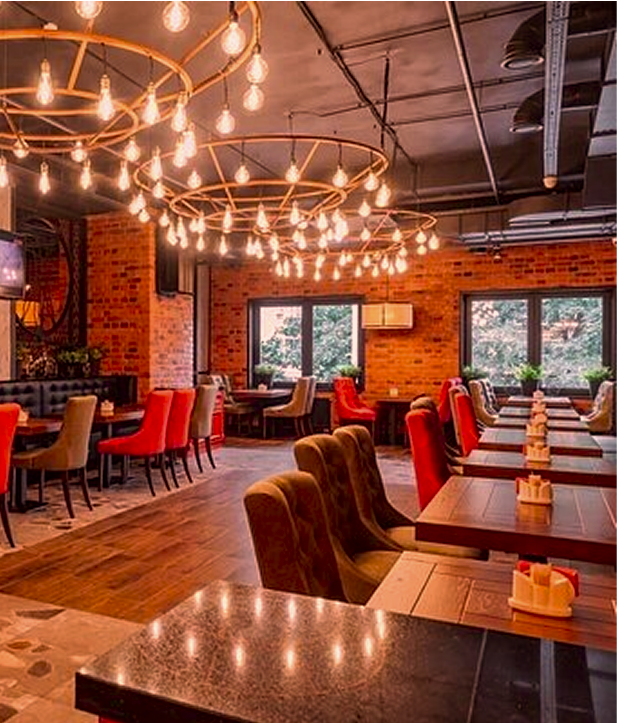
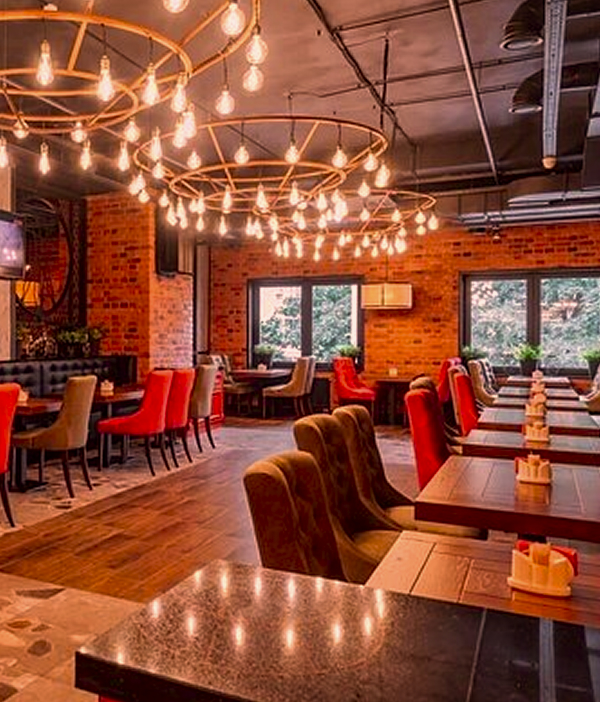
адаптив для больших устройств (#5)

diff --git a/styles/style.css b/styles/style.css
@@ -46,7 +46,7 @@ body {
 
   @media (min-width: 1920px) {
     margin: 0 auto;
-    width: 1220px;
+    width: 1597px;
   }
 }
 
@@ -98,7 +98,11 @@ body {
   }
 
   @media (min-width: 1220px) {
-    width: 732px;
+    width: 60%;
+  }
+
+  @media (min-width: 1920px) {
+    width: 100%;
   }
 }
 
@@ -107,6 +111,7 @@ body {
 
   @media (min-width: 1220px) {
     width: 100%;
+    z-index: 2;
   }
 }
 
@@ -119,10 +124,6 @@ body {
     justify-content: space-between;
     align-items: center;
   }
-
-  /* @media (min-width: 1220px) {
-    width: 732px;
-  } */
 }
 
 .logo__pic {
@@ -152,7 +153,12 @@ body {
   }
 
   @media (min-width: 1920px) {
+    margin-right: 646px;
     width: 480px;
+
+    .page-header--scrolled & {
+      margin-right: 0;
+    }
   }
 }
 
@@ -323,7 +329,7 @@ body {
   }
 
   @media (min-width: 1220px) {
-    padding: 27px 63px;
+    padding: 27px 63px 40px;
 
     &::before {
       content: "";
@@ -331,12 +337,20 @@ body {
       top: 0;
       bottom: 0;
       right: 0;
-      width: 638px;
+      width: 40%;
       background-image:
       url("../images/pizza.jpg");
       background-repeat: no-repeat;
       background-position: 0 0;
-      background-size: auto 100%;
+      background-size: cover;
+    }
+  }
+
+  @media (min-width: 1920px) {
+    padding: 150px 0 50px;
+
+    &::before {
+      z-index: 1;
     }
   }
 }
@@ -425,22 +439,44 @@ body {
 
 .advantages__container {
   padding: 7px 0 27px;
-  /* position: relative; */
 
   @media (min-width: 1220px) {
+    padding: 27px 0 27px 30%;
+
     &::before {
       content: "";
       position: absolute;
-      width: 622px;
-      top: 0;
+      width: 30%;
+      top: 27px;
       left: 0;
-      bottom: 0;
+      bottom: 27px;
       background-image: url("../images/hall.jpg");
       background-repeat: no-repeat;
       background-position: 0 50%;
-      background-size: auto 100%;
+      background-size: cover;
+    }
+  }
+
+  @media (min-width: 1920px) {
+    padding: 100px 24%;
+
+    &::before {
+      top: 100px;
+      bottom: 100px;
     }
 
+    &::after {
+      content: "";
+      position: absolute;
+      width: 30%;
+      top: 100px;
+      right: 0;
+      bottom: 100px;
+      background-image: url("../images/hall-2.jpg");
+      background-repeat: no-repeat;
+      background-position: 0 50%;
+      background-size: cover;
+    }
   }
 }
 
@@ -450,10 +486,6 @@ body {
   list-style: none;
   display: flex;
   flex-direction: column;
-
-  @media (min-width: 1220px) {
-    padding-left: 622px;
-  }
 }
 
 .advantages__item {
@@ -466,6 +498,11 @@ body {
   background-size: 29px 23px;
   background-repeat: no-repeat;
   background-position: 0 50%;
+
+  @media (min-width: 1220px) {
+    padding-left: 78px;
+    background-size: 58px 47px;
+  }
 }
 
 .advantages__item:not(:last-child) {
@@ -495,6 +532,23 @@ body {
 
 .consultation__container {
   padding: 27px 0;
+
+  @media (min-width: 1220px) {
+    position: relative;
+
+    &::after {
+      content: "";
+      position: absolute;
+      width: 665px;
+      height: 715px;
+      right: -57px;
+      bottom: 30px;
+      background-image: url("../images/bg-consultation-man.png");
+      background-repeat: no-repeat;
+      background-position: 0 50%;
+      background-size: cover;
+    }
+  }
 }
 
 .consultation__content {
@@ -510,13 +564,33 @@ body {
     padding: 55px;
   }
 
-  @media (min-width: 1920px) {
-    padding: 73px 134px;
+  @media (min-width: 1220px) {
+    position: relative;
+    display: grid;
+    grid-template-columns: 1fr 550px;
+
+    &::before {
+      content: "";
+      position: absolute;
+      width: 550px;
+      top: 0;
+      right: 0;
+      bottom: 0;
+      background-image: url("../images/bg-consultation.jpg");
+      background-repeat: no-repeat;
+      background-position: 0 50%;
+      background-size: cover;
+      border-radius: 0 15px 15px 0;
+    }
   }
 }
 
+.consultation__form-container {
+  width: 100%;
+}
+
 .consultation__title {
-  margin: 0;
+  margin: 0 auto;
   margin-bottom: 20px;
   width: 225px;
   font-size: 24px;
@@ -526,6 +600,25 @@ body {
 
   @media (min-width: 768px) {
     width: 600px;
+    font-size: 36px;
+    line-height: 40px;
+  }
+
+  @media (min-width: 1220px) {
+    margin: 0 auto 20px;
+    width: 80%;
+    max-width: 525px;
+    font-size: 45px;
+    line-height: 49px;
+  }
+
+  @media (min-width: 1920px) {
+    margin: 0;
+    margin-bottom: 20px;
+    max-width: 800px;
+    text-align: start;
+    font-size: 54px;
+    line-height: 60px;
   }
 }
 
@@ -649,10 +742,15 @@ body {
 
 .social__container {
   padding: 27px 0;
-  display: flex;
-  flex-direction: column;
+  display: grid;
   gap: 20px;
-  align-items: center;
+  justify-items: center;
+
+  @media (min-width: 1220px) {
+    grid-template-columns: repeat(3, 300px);
+    justify-content: space-between;
+    justify-items: normal;
+  }
 }
 
 .social__logo-link {
@@ -674,6 +772,16 @@ body {
   justify-content: center;
   flex-wrap: wrap;
   gap: 8px;
+
+  @media (min-width: 1220px) {
+    margin: 0 auto;
+  }
+}
+
+.social__button {
+  @media (min-width: 1220px) {
+    justify-self: end;
+  }
 }
 
 .social__link {
@@ -726,8 +834,13 @@ body {
 
   @media (min-width: 768px) {
     justify-content: space-between;
+    gap: 20px;
     font-size: 20px;
     line-height: 30px;
+  }
+
+  @media (min-width: 1220px) {
+    grid-column: 1 / -1;
   }
 }
 
@@ -747,6 +860,12 @@ body {
   &:active {
     outline: none;
     opacity: 0.3;
+  }
+
+  @media (min-width: 1220px) {
+    grid-column: 1 / -1;
+    width: 170px;
+    text-align: center;
   }
 }
 

diff --git a/index.html b/index.html
@@ -60,7 +60,8 @@
         <ul class="advantages__list">
           <li class="advantages__item">
             <h3 class="advantages__title">Pizza</h3>
-            <span class="advantages__text">Is a very simple thing, it is difficult to spoil it. It is a construction set, if the parts are of high quality, then the result will be fine. Here they are, our parts:
+            <span class="advantages__text">Is a very simple thing, it is difficult to spoil it. It is a construction
+              set, if the parts are of high quality, then the result will be fine. Here they are, our parts:
           </li>
           <li class="advantages__item">
             <h3 class="advantages__title">Dough</h3>
@@ -71,7 +72,8 @@
             <span class="advantages__text">Cheese is the key ingredient in pizza. We use real mozzarella.
           <li class="advantages__item">
             <h3 class="advantages__title">Filling</h3>
-            <span class="advantages__text">There are two main rules for a delicious filling: don't skimp on the filling; that's the whole secret.
+            <span class="advantages__text">There are two main rules for a delicious filling: don't skimp on the filling;
+              that's the whole secret.
           </li>
         </ul>
         <a class="advantages__button button" href="#">
@@ -82,24 +84,27 @@
     <section class="page-main__section consultation">
       <div class="consultation__container container">
         <div class="consultation__content">
-          <h2 class="consultation__title">Want to be the first to know about promotions? Subscribe!</h2>
-          <form class="consultation__form" method="post" action="#">
-            <label class="consultation__field">
-              <span class="visually-hidden">Name</span>
-              <input class="consultation__input" type="text" name="Name" placeholder="Name" required>
-            </label>
-            <label class="consultation__field">
-              <span class="visually-hidden">E-mail</span>
-              <input class="consultation__input" type="email" name="E-mail" placeholder="E-mail" autocomplete="off" required>
-            </label>
-            <div class="consultation__agreements agreements">
-              <label class="agreements__field">
-                <input class="agreements__checkbox" type="checkbox" name="privacy-policy">
-                <span class="agreements__text">I accept Privacy policy</span>
+          <div class="consultation__form-container">
+            <h2 class="consultation__title">Want to be the first to know about promotions? Subscribe!</h2>
+            <form class="consultation__form" method="post" action="#">
+              <label class="consultation__field">
+                <span class="visually-hidden">Name</span>
+                <input class="consultation__input" type="text" name="Name" placeholder="Name" required>
               </label>
-            </div>
-            <button class="consultation__button button" type="submit">Subscribe</button>
-          </form>
+              <label class="consultation__field">
+                <span class="visually-hidden">E-mail</span>
+                <input class="consultation__input" type="email" name="E-mail" placeholder="E-mail" autocomplete="off"
+                  required>
+              </label>
+              <div class="consultation__agreements agreements">
+                <label class="agreements__field">
+                  <input class="agreements__checkbox" type="checkbox" name="privacy-policy">
+                  <span class="agreements__text">I accept Privacy policy</span>
+                </label>
+              </div>
+              <button class="consultation__button button" type="submit">Subscribe</button>
+            </form>
+          </div>
         </div>
       </div>
     </section>
